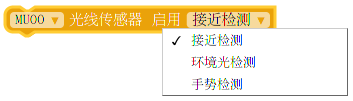
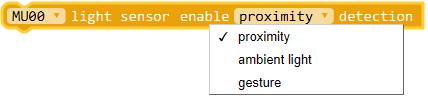
update

diff --git a/MUVS3/MUVS3_Mixly/MUVS3_Mixly_Guide.md b/MUVS3/MUVS3_Mixly/MUVS3_Mixly_Guide.md
@@ -59,7 +59,9 @@ MU Vision Sensor 3 periphrals and ports:
 
 # Block Introduction
 
-**Initialization**
+## Setting Blocks
+
+### Initialization
 
 (1)Hardware Serial Mode: Vision sensor uses serial mode to initialize the main control when connecting the main control hardware serial port. 
 The serial port is the serial communication between the main control and the computer. 
@@ -77,36 +79,37 @@ The speed of soft serial port in real environment may be too fast and unstable. 
 
 ![](./images/Mixly_block_i2c_init.png)
 
-**Enable Vision Algorithms**
+### Enable Vision Algorithms
 
 ![](./images/Mixly_block_enable_algorithm.png)
 
-**Algorithm performance level**
+### Algorithm performance level
 
 ![](./images/Mixly_block_algorithm_performance.png)
 
-**Enable/Disable the High FPS Mode**
+### Enable/Disable the High FPS Mode
 
 In high FPS mode, detect speed and power consumption will increase.
 
 ![](./images/Mixly_block_highFPS.png)
 
-**Set White Balance Mode**
+### Set White Balance Mode
 
 Adjust the image bias caused by the change of external light source.
 
 ![](./images/Mixly_block_setWB.png)
 
-**LED Settings**
+### LED Settings
 
 ![](./images/Mixly_block_setLED.png)
 
-**Restore Default Settings**
+### Restore Default Settings
+
 Disable all algorithms and restore hardware default settings.
 
 ![](./images/Mixly_block_setdefault.png)
 
-**Get Detect Results**
+### Get Result Blocks
 
 (1) Ball/Body Detection
 
@@ -124,19 +127,123 @@ Disable all algorithms and restore hardware default settings.
 
 ![](./images/Mixly_block_color_block.png)
 
+## Light Sensor Blocks
+
+### Enable Light Sensor
+
+Enable light sensor functions. Gesture detect function can not work together with other functions.
+
+![](./images/Mixly_block_ls_begin.png)
+
+### Set Sensitivity
+
+Set light sensor sensitivity, only working in Proximity/Ambient Light Detect.
+
+![](./images/Mixly_block_ls_set_sensitivity.png)
+
+### Get Proximity Value
+
+Read proximity value. Closer the distance, bigger the value.
+
+![](./images/Mixly_block_ls_read_proximity.png)
+
+### Read Ambient Light Value
+
+Lighter the ambient light, bigger the walue.
+
+![](./images/Mixly_block_ls_read_als.png)
+
+### Read Detected Gesture or Not
+
+Read whether detected gesture. If not detected, return 0.
+
+![](./images/Mixly_block_ls_detect_gesture.png)
+
+### Judge Detected Gesture
+
+Judge type of the detected gesture.
+
+![](./images/Mixly_block_ls_read_gesture.png)
+
+## WiFi Module Blocks
+
+### *WiFi AT command Settings*
+
+*Blocks below only works in image transmission or AT command mode*.
+
+### WiFi Initialization
+
+Initial WiFi port and baudrate.
+
+![](./images/Mixly_block_wifi_begin.png)
+
+### Configure WiFi
+
+Set account and password of WiFi.
+
+![](./images/Mixly_block_wifi_config.png)
+
+### Connect/Establish WiFi
+
+Try connect to WiFi or establish WiFi and return conncetion result.
+
+![](./images/Mixly_block_wifi_connect.png)
+
+### Disconnect WiFi
+
+![](./images/Mixly_block_wifi_disconnect.png)
+
+### Set target IP
+
+![](./images/Mixly_block_wifi_set_target_ip.png)
+
+### Read target IP
+
+![](./images/Mixly_block_wifi_read_target_ip.png)
+
+### Read local IP
+
+Get IP of MU.
+
+![](./images/Mixly_block_wifi_read_local_ip.png)
+
+### WiFi Read
+
+Get data that target IP sent to MU.
+
+![](./images/Mixly_block_wifi_read.png)
+
+### WiFi Write
+
+Send data to target IP.
+
+![](./images/Mixly_block_wifi_write.png)
+
 # Examples
 
-**Color Recognition**
+## Color Recognition
 
 ![](./images/Mixly_example_color_recognition.png)
 
-**Ball Detection**
+## Ball Detection
 
 ![](./images/Mixly_example_ball_detect.png)
 
-**Card Detection**
+## Card Detection
 
 ![](./images/Mixly_example_card_detect.png)
+
+## Light Sensor - Gesture Detect
+
+![](./images/Mixly_example_ls_gesture_detect.png)
+
+## Light Sensor - Proximity/Ambient Light Detect
+
+![](./images/Mixly_example_ls_als_proximity_detect.png)
+
+## Connect to WiFi through AT Command
+
+![](./images/Mixly_example_AT_wifi_set.png)
 
 # FAQs
 
